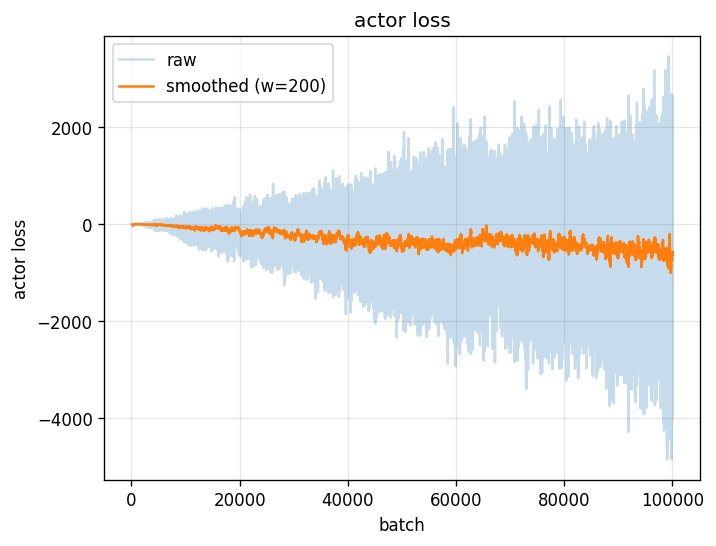
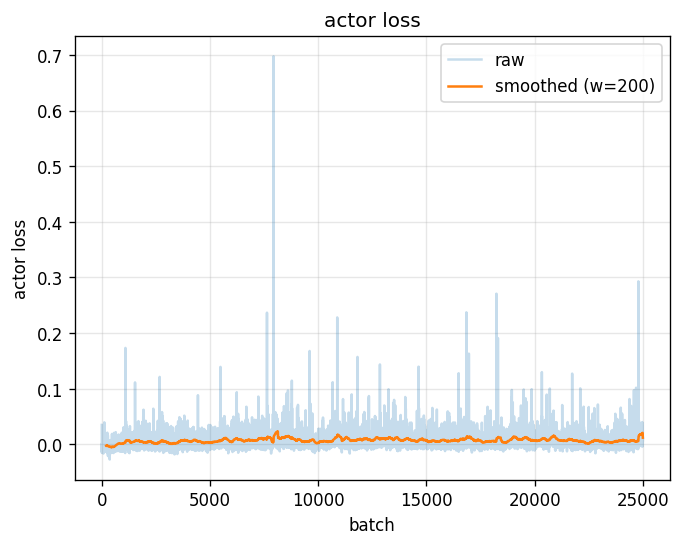
surrogate objective and clipping

diff --git a/main.py b/main.py
@@ -3,6 +3,7 @@ import os
 
 import torch
 import torch.nn as nn
+import torch.nn.functional as F
 from torch.optim import Adam
 import numpy as np
 import matplotlib.pyplot as plt
@@ -37,16 +38,16 @@ class Policy(nn.Module):
 
     def act(self, obs):
         dist = self.forward(obs)
-        u = dist.rsample()
-        log_prob = dist.log_prob(u).sum(-1)
-        log_prob -= (2 * (np.log(2) - u - nn.functional.softplus(-2 * u))).sum(-1)
-        action = torch.tanh(u)
-        return action, u, log_prob
+        unsquashed = dist.rsample()
+        log_prob = dist.log_prob(unsquashed).sum(-1)
+        log_prob -= (2 * (np.log(2) - unsquashed - nn.functional.softplus(-2 * unsquashed))).sum(-1)
+        action = torch.tanh(unsquashed)
+        return action, unsquashed, log_prob
 
-    def evaluate(self, obs, u):
+    def evaluate(self, obs, unsquashed):
         dist = self.forward(obs)
-        log_prob = dist.log_prob(u).sum(-1)
-        log_prob -= (2 * (np.log(2) - u - nn.functional.softplus(-2 * u))).sum(-1)
+        log_prob = dist.log_prob(unsquashed).sum(-1)
+        log_prob -= (2 * (np.log(2) - unsquashed - nn.functional.softplus(-2 * unsquashed))).sum(-1)
         entropy = dist.entropy().sum(-1)
         return log_prob, entropy
 
@@ -88,7 +89,18 @@ def demo(checkpoint, episodes=10):
 
     env.close()
 
-def train(lr=3e-3, epochs=25000, minibatch=125, K=4, N=25, T=25, gamma=0.985, entropy_coef=0.001, render=False, lam=0.95):
+def train(lr=3e-3, 
+          epochs=25000, 
+          minibatch=125,
+          K=4, 
+          N=25, 
+          T=25, 
+          gamma=0.985,
+          entropy_coef=0.001, 
+          render=False, 
+          lam=0.95, 
+          epsilon=0.2):
+    
     envs = gym.make_vec(ENV_ID,
                            num_envs = N,
                            vectorization_mode="sync",
@@ -124,7 +136,8 @@ def train(lr=3e-3, epochs=25000, minibatch=125, K=4, N=25, T=25, gamma=0.985, en
 
     batch_size = T * N
     obs_buf  = np.zeros((T, N, obs_dim), dtype=np.float32)
-    u_buf    = np.zeros((T, N, n_actions), dtype=np.float32)
+    unsquashed_buf = np.zeros((T, N, n_actions), dtype=np.float32)
+    logp_buf = np.zeros((T, N), dtype=np.float32)
     rew_buf  = np.zeros((T, N), dtype=np.float32)
     done_buf = np.zeros((T, N), dtype=np.float32)
     indices  = np.arange(batch_size)
@@ -140,8 +153,9 @@ def train(lr=3e-3, epochs=25000, minibatch=125, K=4, N=25, T=25, gamma=0.985, en
         with torch.no_grad():
             for t in range(T):
                 obs_buf[t] = obs
-                act, u, _ = model.act(torch.as_tensor(obs, dtype=torch.float32))
-                u_buf[t] = u.numpy()
+                act, unsquashed, logprob = model.act(torch.as_tensor(obs, dtype=torch.float32))
+                unsquashed_buf[t] = unsquashed.numpy()
+                logp_buf[t] = logprob.numpy()
                 obs, rew, term, trunc, _ = envs.step(act.numpy())
                 rew_buf[t]  = rew
                 done = term | trunc
@@ -162,10 +176,11 @@ def train(lr=3e-3, epochs=25000, minibatch=125, K=4, N=25, T=25, gamma=0.985, en
             advantage_np = gae(rew_buf, done_buf, values_for_gae, gamma, lam)
             returns_np   = advantage_np + values_old
 
-        flat_u   = torch.as_tensor(u_buf.reshape(batch_size, n_actions), dtype=torch.float32)
+        flat_unsquashed = torch.as_tensor(unsquashed_buf.reshape(batch_size, n_actions), dtype=torch.float32)
         flat_adv = torch.as_tensor(advantage_np.reshape(batch_size), dtype=torch.float32)
         flat_ret = torch.as_tensor(returns_np.reshape(batch_size), dtype=torch.float32)
         flat_adv = (flat_adv - flat_adv.mean()) / (flat_adv.std() + 1e-8)
+        flat_logp = torch.as_tensor(logp_buf.reshape(batch_size), dtype=torch.float32)
 
         a_losses, c_losses = [], []
         for _ in range(K):
@@ -173,15 +188,20 @@ def train(lr=3e-3, epochs=25000, minibatch=125, K=4, N=25, T=25, gamma=0.985, en
             for start in range(0, batch_size, minibatch):
                 mb = indices[start:start + minibatch]
                 mb_obs = flat_obs[mb]
-                mb_u   = flat_u[mb]
+                mb_unsquashed = flat_unsquashed[mb]
                 mb_adv = flat_adv[mb]
                 mb_ret = flat_ret[mb]
+                mb_logp_old = flat_logp[mb]
 
-                new_logp, entropy = model.evaluate(mb_obs, mb_u)
+                new_logp, entropy = model.evaluate(mb_obs, mb_unsquashed)
                 new_values = critic(mb_obs)
 
-                actor_loss  = -(new_logp * mb_adv).mean() - entropy_coef * entropy.mean()
-                critic_loss = ((mb_ret - new_values) ** 2).mean()
+                ratio = (new_logp - mb_logp_old).exp()
+                unclamped_obj = ratio * mb_adv
+                clamped_obj = torch.clamp(ratio, 1 - epsilon, 1 + epsilon) * mb_adv
+                actor_loss = -torch.min(unclamped_obj, clamped_obj).mean()
+                actor_loss -= entropy_coef * entropy.mean()
+                critic_loss = F.mse_loss(new_values, mb_ret)
 
                 actor_optimizer.zero_grad()
                 actor_loss.backward()
